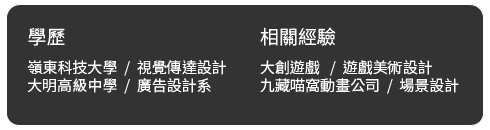
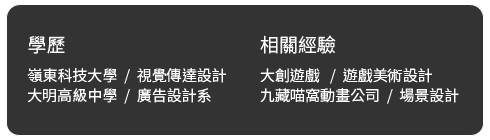
修改個人資訊欄高度

diff --git a/flowerFish/resume/js/game.js b/flowerFish/resume/js/game.js
@@ -185,7 +185,8 @@ game.State.load={
 game.State.web={
 
     create:function(){
-
+        var infoy = 730;
+        var infoTitle = 623;
         // 背景
         this.bg = game.add.image(0,0,'bg');
         this.joker = game.add.image(0,0,'joker');
@@ -196,13 +197,13 @@ game.State.web={
         // 資訊版與按鈕
         this.info=game.add.sprite(0,0);
         this.info.alpha = 0;
-        this.exp = game.add.image(game.width/2,740,'exp')
+        this.exp = game.add.image(game.width/2,infoy,'exp')
         this.exp.anchor.setTo(0.5);
         this.exp.alpha = 0;
-        this.info01 =this.info.addChild(game.add.image(game.width/2,740,'info01'));
-        this.info02 = this.info.addChild(game.add.image(game.width/2,740,'info02'));
-        this.info03 = this.info.addChild(game.add.image(game.width/2,740,'info03'));
-        this.infoBtn01 = this.info.addChild(game.add.button(86,637,'infoBtn01',function(){
+        this.info01 =this.info.addChild(game.add.image(game.width/2,infoy,'info01'));
+        this.info02 = this.info.addChild(game.add.image(game.width/2,infoy,'info02'));
+        this.info03 = this.info.addChild(game.add.image(game.width/2,infoy,'info03'));
+        this.infoBtn01 = this.info.addChild(game.add.button(86,infoTitle,'infoBtn01',function(){
             this.info01.alpha = 1;
             this.infoBtn01.alpha = 0;
             this.infoTitle01.alpha = 1;
@@ -213,7 +214,7 @@ game.State.web={
             this.infoBtn03.alpha = 1;
             this.infoTitle03.alpha = 0;
         },this,1,1,0));
-        this.infoBtn02 = this.info.addChild(game.add.button(183,637,'infoBtn02',function(){
+        this.infoBtn02 = this.info.addChild(game.add.button(183,infoTitle,'infoBtn02',function(){
             this.info01.alpha = 0;
             this.infoBtn01.alpha = 1;
             this.infoTitle01.alpha = 0;
@@ -224,7 +225,7 @@ game.State.web={
             this.infoBtn03.alpha = 1;
             this.infoTitle03.alpha = 0;
         },this,1,1,0));
-        this.infoBtn03 = this.info.addChild(game.add.button(280,637,'infoBtn03',function(){
+        this.infoBtn03 = this.info.addChild(game.add.button(280,infoTitle,'infoBtn03',function(){
             this.info01.alpha = 0;
             this.infoBtn01.alpha = 1;
             this.infoTitle01.alpha = 0;
@@ -238,9 +239,9 @@ game.State.web={
         this.infoBtn01.inputEnabled = false;
         this.infoBtn02.inputEnabled = false;
         this.infoBtn03.inputEnabled = false;
-        this.infoTitle01 = this.info.addChild(game.add.image(86,637,'infoTitle01'));
-        this.infoTitle02 = this.info.addChild(game.add.image(183,637,'infoTitle02'));
-        this.infoTitle03 = this.info.addChild(game.add.image(280,637,'infoTitle03'));
+        this.infoTitle01 = this.info.addChild(game.add.image(86,infoTitle,'infoTitle01'));
+        this.infoTitle02 = this.info.addChild(game.add.image(183,infoTitle,'infoTitle02'));
+        this.infoTitle03 = this.info.addChild(game.add.image(280,infoTitle,'infoTitle03'));
         this.info01.anchor.setTo(0.5);
         this.info02.anchor.setTo(0.5);
         this.info03.anchor.setTo(0.5);
